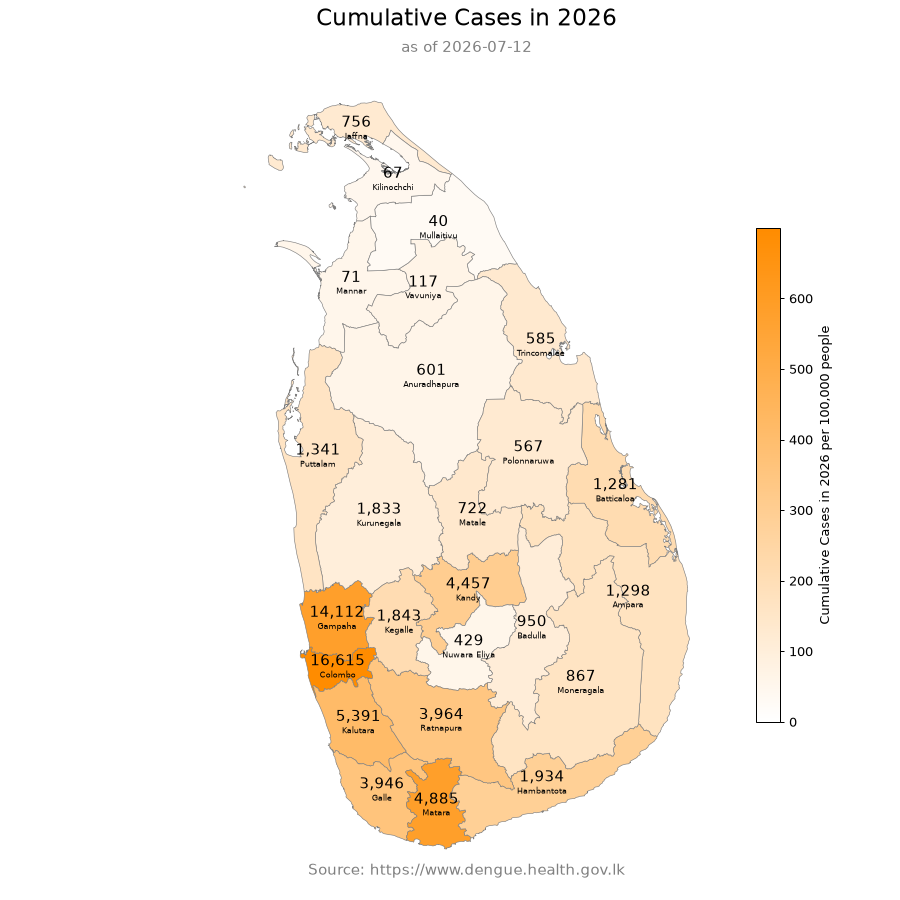
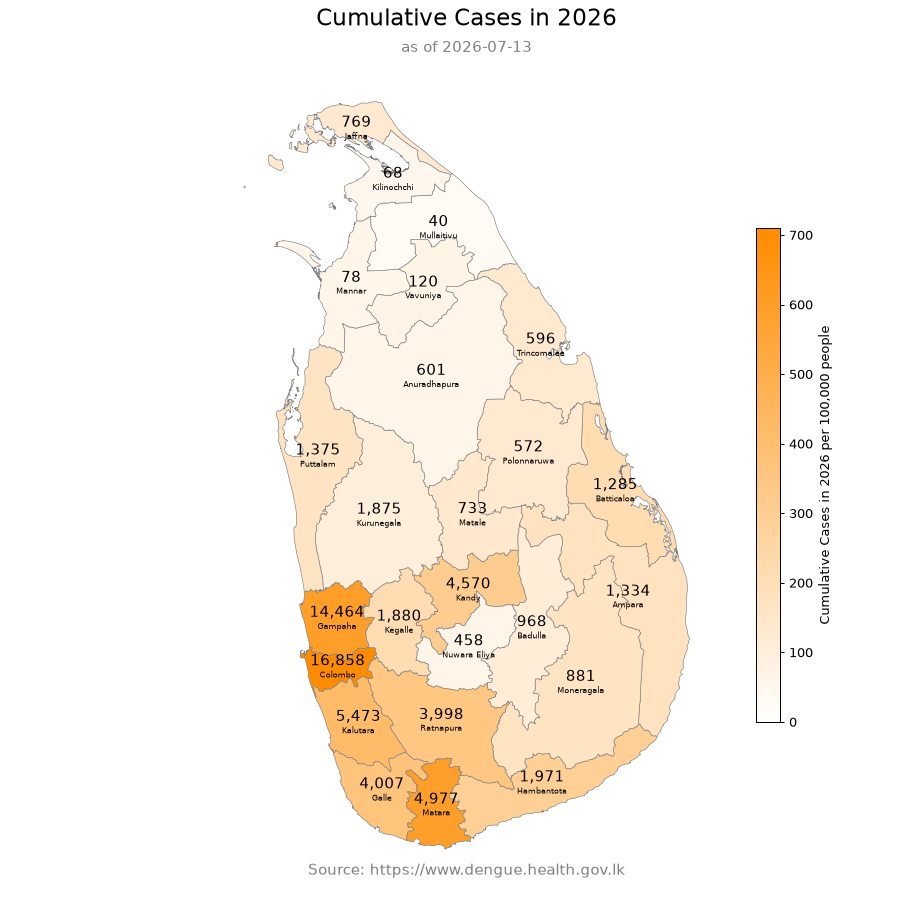
🤖 [pipeline.yml] 2026-07-14-0522

diff --git a/README.md b/README.md
@@ -273,6 +273,7 @@ As of 2026-07-05
 
 ### [National Dengue Control Unit - Daily Update](data/NDCUDaily)
 
+- [2026-07-13](data/NDCUDaily/2026/2026-07/2026-07-13)
 - [2026-07-12](data/NDCUDaily/2026/2026-07/2026-07-12)
 - [2026-07-11](data/NDCUDaily/2026/2026-07/2026-07-11)
 - [2026-07-10](data/NDCUDaily/2026/2026-07/2026-07-10)
